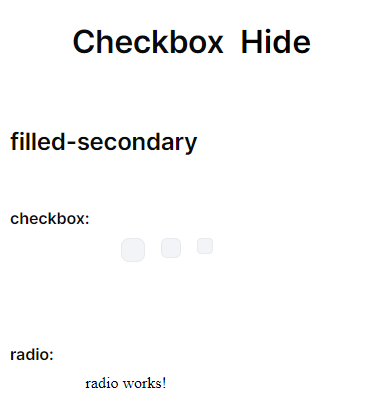
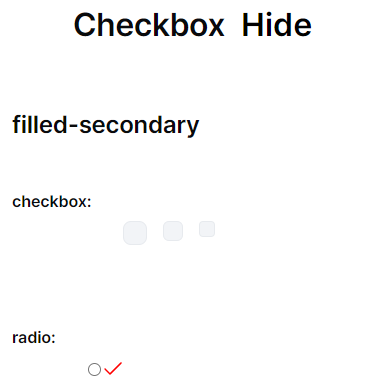
feat: add radio comp structure

diff --git a/src/app/shared/ui-kit/radio/radio.component.ts b/src/app/shared/ui-kit/radio/radio.component.ts
@@ -1,10 +1,80 @@
-import { Component } from '@angular/core';
+import { animate, style, transition, trigger } from '@angular/animations'
+import { Component, Input, ViewEncapsulation, forwardRef } from '@angular/core'
+import { ControlValueAccessor, NG_VALUE_ACCESSOR } from '@angular/forms'
+import { MibRadioSize } from './interfaces/radio.interface'
 
 @Component({
-  selector: 'mib-radio',
-  templateUrl: './radio.component.html',
-  styleUrls: ['./radio.component.scss']
+	selector: 'mib-radio',
+	templateUrl: './radio.component.html',
+	styleUrls: ['./radio.component.scss'],
+	encapsulation: ViewEncapsulation.None,
+	providers: [
+		{
+			provide: NG_VALUE_ACCESSOR,
+			useExisting: forwardRef(() => RadioComponent),
+			multi: true
+		}
+	],
+	animations: [
+		trigger('radioAnimation', [
+			transition(':enter', [
+				style({
+					transform: 'translate(-50%,-90%) rotateX(-60deg)'
+				}),
+				animate(
+					'300ms ease',
+					style({
+						transform: 'translate(-50%,-50%) rotateX(0deg)'
+					})
+				)
+			]),
+			transition(':leave', [
+				style({
+					transform: 'translate(-50%,-50%) rotateX(0deg)'
+				}),
+				animate(
+					'200ms ease',
+					style({
+						transform: 'translate(-50%,-20%) rotateX(60deg)'
+					})
+				)
+			])
+		])
+	]
 })
-export class RadioComponent {
+export class RadioComponent implements ControlValueAccessor {
+	public value: boolean = false
 
+	@Input() size: MibRadioSize = 'm'
+	@Input() class: string = ''
+	@Input() align: string = 'flex_align-self-start'
+	@Input() id: string = ''
+
+	onChange: any = () => {}
+
+	onTouch: any = () => {}
+
+	writeValue(value: boolean): void {
+		this.value = value
+		this.onChange(this.value)
+	}
+
+	registerOnChange(fn: any): void {
+		this.onChange = fn
+	}
+
+	registerOnTouched(fn: any): void {
+		this.onTouch = fn
+	}
+
+	setDisabledState?(isDisabled: boolean): void {
+		console.log('radio disabled not implemented!')
+	}
+
+	onRadioChange(event: Event): void {
+		event.stopPropagation()
+		event.preventDefault()
+		this.value = !this.value
+		this.writeValue(this.value)
+	}
 }

diff --git a/src/app/shared/ui-kit/radio/radio.component.html b/src/app/shared/ui-kit/radio/radio.component.html
@@ -1,1 +1,22 @@
-<p>radio works!</p>
+<label class="flex flex_align-center radio w100" [ngClass]="class">
+	<input
+		type="radio"
+		[checked]="value"
+		(click)="onRadioChange($event)"
+		class="radio-input"
+	/>
+	<span
+		[class.checked]="value"
+		class="radio-control flex flex_center"
+		[ngClass]="'radio-control_' + size"
+	>
+		<mib-ref-icon
+			style="stroke: red"
+			@radioAnimation
+			*ngIf="value"
+			class="stroke"
+			name="fi_check"
+		></mib-ref-icon>
+	</span>
+	<ng-content></ng-content>
+</label>

diff --git a/src/app/shared/ui-kit/radio/radio.module.ts b/src/app/shared/ui-kit/radio/radio.module.ts
@@ -1,10 +1,11 @@
 import { NgModule } from '@angular/core'
 import { CommonModule } from '@angular/common'
 import { RadioComponent } from './radio.component'
+import { RefIconModule } from '../ref-icon/ref-icon.module'
 
 @NgModule({
 	declarations: [RadioComponent],
 	exports: [RadioComponent],
-	imports: [CommonModule]
+	imports: [CommonModule, RefIconModule]
 })
 export class RadioModule {}

diff --git a/src/app/shared/modules/mib-ui/mib-ui.component.html b/src/app/shared/modules/mib-ui/mib-ui.component.html
@@ -876,7 +876,7 @@
 		gap: 1rem;
 	"
 >
-	{{ 'checkbox' | titlecase }}
+	{{ 'controls' | titlecase }}
 	<button (click)="isShownSwitch = !isShownSwitch">
 		{{ isShownSwitch ? 'Hide' : 'Show' }}
 	</button>

diff --git a/src/app/shared/ui-kit/radio/interfaces/radio.interface.ts b/src/app/shared/ui-kit/radio/interfaces/radio.interface.ts
@@ -1,1 +1,1 @@
-export type RadioSize = 'l' | 'm' | 's'
+export type MibRadioSize = 'l' | 'm' | 's'
